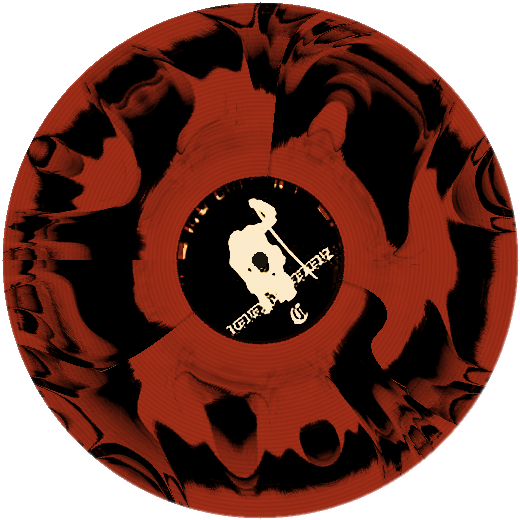
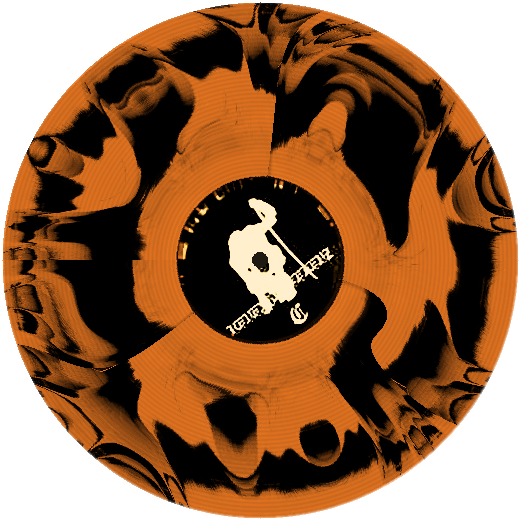
Le disque de Revengeseekerz devient franchement orange
Le premier essai le calait sur la teinte mediane du fond, +9.6 degres, et le
resultat lisait rouge. La mesure etait juste mais la conclusion fausse : le
fond est delave de noir et de trame, si bien qu au meme angle il lit orange,
alors que le disque est une masse pleine a 0.86 de saturation, ou cet angle
reste du rouge.

Il est donc emmene plus loin que la mesure, a +25.7 degres, avec la clarte
des zones colorees portee a 0.70. Essaye a +16, +24, +30 et +36 sur le fond
reel : au dela de trente il vire a l ocre. L etiquette et les sillons noirs,
soit un quart de la surface, ne bougent pas — le decalage reste pondere par
la saturation.

diff --git a/index.html b/index.html
@@ -2232,7 +2232,7 @@ var ALBUMS = [
     }) },
 
   { title:'Revengeseekerz', by:'Jane Remover', theme:'red',
-    disc:'assets/disc2.png?v=2', cover:'assets/cover2.jpg', thumb:'assets/alb2.jpg',
+    disc:'assets/disc2.png?v=3', cover:'assets/cover2.jpg', thumb:'assets/alb2.jpg',
     art:'assets/trk2.jpg', artFill:true,
     start:7,                                  /* Dancing with your eyes closed */
     tracks: A2 },
